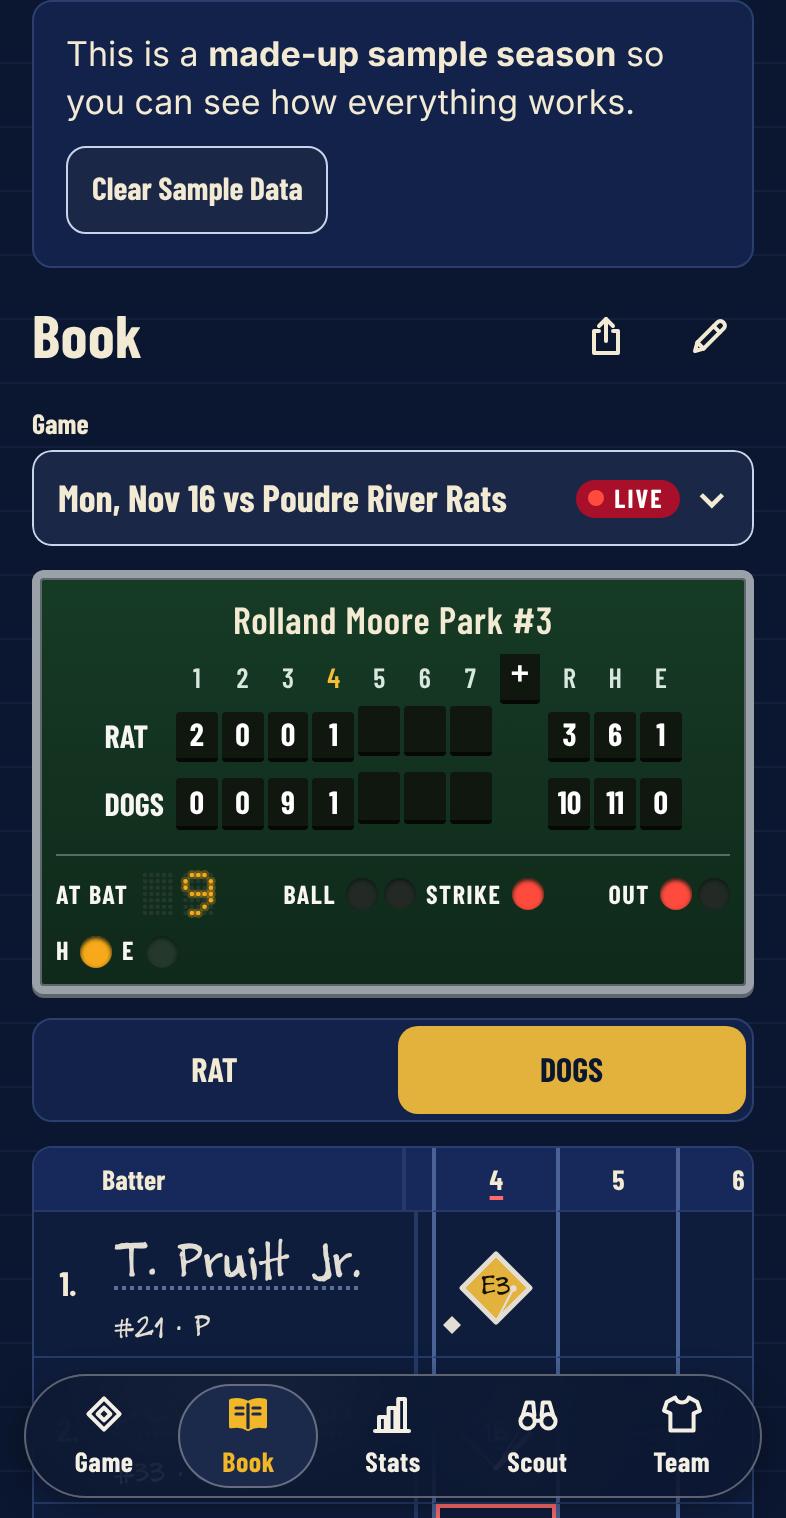
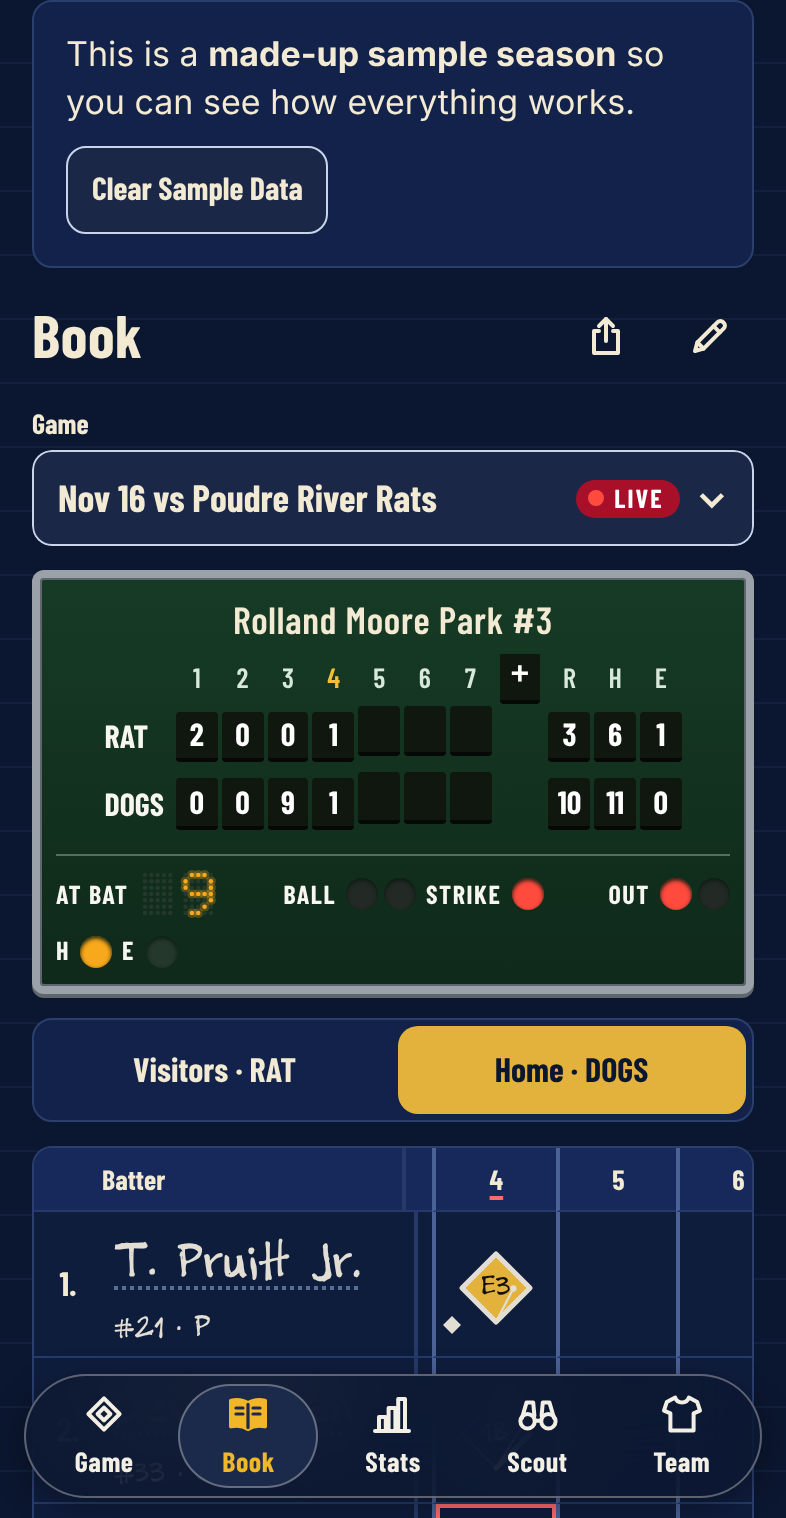
Book: Visitors and Home pages, one-line game menu entries without the weekday, a navy focus ring; iOS draws system pieces
Claude-Session: https://claude.ai/code/session_019GkS5eEiAzmEB3GrHC5aVf

Changed region(s): [[0.0611, 0.3096, 0.6412, 0.3406], [0.6107, 0.6812, 0.8244, 0.7121], [0.1527, 0.6812, 0.3664, 0.7121]]

diff --git a/src/ui/book/book.ts b/src/ui/book/book.ts
@@ -16,7 +16,7 @@ import { h } from '../dom.ts';
 import { icon } from '../icons.ts';
 import { choose, openSheet } from '../sheet.ts';
 import { openPlayerCard } from '../stats/playercard.ts';
-import { dayText } from '../when.ts';
+import { dayText, shortDayText } from '../when.ts';
 import { BookBoard } from './board.ts';
 import { openEditPlay } from './editplay.ts';
 import { drawGrid } from './grid.ts';
@@ -41,7 +41,7 @@ export async function pickInk(app: App): Promise<void> {
   app.commit((d) => (d.prefs.bookInk = pick));
 }
 
-/** "Sat, Oct 17 vs Horsetooth Hackers · W 12–7", for the game menu. */
+/** "Oct 17 vs Horsetooth Hackers · W 12–7", for the game menu: no weekday, so each fits one line (Steve, Nov 16). */
 export function gameLabel(g: SavedGame): string {
   const s = stateOf(g);
   const us = s.score[g.setup.us];
@@ -49,7 +49,7 @@ export function gameLabel(g: SavedGame): string {
   const result = resultFor(g);
   // "Live" rather than "In Progress", so the whole line fits the menu (Book polish, Nov 14).
   const tail = !g.saved && !s.final ? 'Live' : `${result ?? ''} ${us}–${them}`.trim();
-  return `${dayText(g.date)} ${g.setup.us === 'away' ? 'at' : 'vs'} ${g.opponent} · ${tail}`;
+  return `${shortDayText(g.date)} ${g.setup.us === 'away' ? 'at' : 'vs'} ${g.opponent} · ${tail}`;
 }
 
 /** Each name and the line under it on one line: shrink (--fit) until it shows whole. */
@@ -134,8 +134,9 @@ export class BookScreen {
     this.board.update(team, game, number);
 
     // Which team's page.
-    const away = game.setup.us === 'away' ? { value: 'us' as const, label: team.abbr } : { value: 'them' as const, label: game.opponentAbbr };
-    const home = game.setup.us === 'home' ? { value: 'us' as const, label: team.abbr } : { value: 'them' as const, label: game.opponentAbbr };
+    // Labeled like a scorebook's two pages (Steve, Nov 16): "Visitors · RAT" and "Home · DOGS".
+    const away = game.setup.us === 'away' ? { value: 'us' as const, label: `Visitors · ${team.abbr}` } : { value: 'them' as const, label: `Visitors · ${game.opponentAbbr}` };
+    const home = game.setup.us === 'home' ? { value: 'us' as const, label: `Home · ${team.abbr}` } : { value: 'them' as const, label: `Home · ${game.opponentAbbr}` };
     const which = segmented('Book Page', [away, home], this.side, (v) => {
       this.side = v;
       this.update(true);

diff --git a/src/content/help.ts b/src/content/help.ts
@@ -136,7 +136,7 @@ export const HELP: HelpSection[] = [
       'Under it, Rare Plays is a checklist: a double play, a triple play, the cycle, an inside-the-park homer, a grand slam, a perfect inning, and a walk-off. The first time your team has one, it gets a check and the date and park, written in by hand.',
       'Watch Replay, above the play-by-play, plays the game back on the field: the ball’s line out to where it landed, runners moving around the bases, and the score ticking along. Play runs it, Back and Next step through, and the menu jumps to any half-inning.',
       'Tap any box or play-by-play line to Edit Play: change the result, move the ball, change where each runner ended and who gets the RBI, or Delete This Play (tap twice). Everything after it is re-scored, on saved games too, and the stats follow.',
-      'Use the short team names above the page to switch teams, the Game menu for another game (LIVE marks the one being scored), the pencil at the top to choose Pencil, Black Pen, or Blue Pen, and the share icon beside it to share the game. During a game, the Book opens on the inning being played; swipe the page sideways for the others, and the names stay put.',
+      'Use Visitors and Home above the page to switch teams, the Game menu for another game (LIVE marks the one being scored), the pencil at the top to choose Pencil, Black Pen, or Blue Pen, and the share icon beside it to share the game. During a game, the Book opens on the inning being played; swipe the page sideways for the others, and the names stay put.',
     ],
   },
   {

diff --git a/src/ui/when.ts b/src/ui/when.ts
@@ -10,6 +10,13 @@ export function dayText(iso: string, now = new Date()): string {
   return d.toLocaleDateString(undefined, { weekday: 'short', month: 'short', day: 'numeric', ...(sameYear ? {} : { year: 'numeric' }) });
 }
 
+/** "Nov 15" (no weekday; the year only when it isn't this year): the Book's game menu (Steve, Nov 16). */
+export function shortDayText(iso: string, now = new Date()): string {
+  const d = dateFromIso(iso);
+  const sameYear = d.getFullYear() === now.getFullYear();
+  return d.toLocaleDateString(undefined, { month: 'short', day: 'numeric', ...(sameYear ? {} : { year: 'numeric' }) });
+}
+
 export function timeText(hhmm: string): string {
   if (!/^\d{1,2}:\d{2}$/.test(hhmm)) return '';
   const [h, m] = hhmm.split(':').map(Number) as [number, number];

diff --git a/tests/e2e/book-stats.spec.ts b/tests/e2e/book-stats.spec.ts
@@ -240,7 +240,7 @@ test('Book Ink, View Game from Stats, the other team’s page, and Scout', async
   await expect(page.getByRole('tab', { name: 'Book' })).toHaveAttribute('aria-selected', 'true');
   await expect(page.getByLabel('Game', { exact: true }).locator('option:checked')).toContainText('Two Left Mitts');
   await expect(page.locator('.bk-stamp, .bk-incomplete')).toBeVisible();
-  await page.getByRole('group', { name: 'Book Page' }).getByRole('button', { name: 'MIT' }).click();
+  await page.getByRole('group', { name: 'Book Page' }).getByRole('button', { name: /· MIT$/ }).click();
   await expect(page.locator('.bk-name').first()).not.toHaveText('Jess Kowalczyk');
   // Scout.
   await page.getByRole('tab', { name: 'Scout' }).click();

diff --git a/src/ui/book/book.css b/src/ui/book/book.css
@@ -105,9 +105,11 @@
   padding-bottom: 6px;
 }
 
-.bk-picker-box:focus-within .bk-picker-face {
-  outline: 3px solid var(--focus);
-  outline-offset: -3px;
+.bk-picker-box:has(select:focus-visible) .bk-picker-face {
+  /* A keyboard's focus ring only, in navy: red means outs and alerts, and a live game isn't an
+     alert (Steve, Nov 16). The thin navy border stays after a tap. */
+  outline: 2px solid var(--role-navy-line);
+  outline-offset: -4px;
 }
 
 /* LIVE: a small red badge with a lit lamp, the same red as the board's count lights. The badge's

diff --git a/src/content/whats-new.ts b/src/content/whats-new.ts
@@ -10,6 +10,11 @@ export interface WhatsNewEntry {
 
 export const WHATS_NEW: WhatsNewEntry[] = [
   {
+    version: '2026.11.16-10',
+    headline: 'Two Pages, Plainly Marked',
+    lines: ['The Book’s pages now read Visitors and Home, the way a scorebook does, and the game menu keeps every game to one tidy line: “Nov 15 vs Poudre River Rats.”'],
+  },
+  {
     version: '2026.11.16-9',
     headline: 'The Book, Cleaned Up',
     lines: [

diff --git a/src/version.ts b/src/version.ts
@@ -1,2 +1,2 @@
 // Bump on every push that changes the app. Format: YYYY.MM.DD-N
-export const APP_VERSION = '2026.11.16-9';
+export const APP_VERSION = '2026.11.16-10';

diff --git a/docs/MASTER_SPEC.md b/docs/MASTER_SPEC.md
@@ -292,7 +292,7 @@ Top to bottom on iPhone:
 
 ### 6. Book tab
 
-- **Book screen (Steve's Book handoff, Nov 16, 2026.11.16-9):** the large **Book** title on the left; icon buttons on the right: Share (our tray-and-arrow icon) and a pencil that opens Book Ink as the iPhone's own menu (the Share and Ink pills are gone). The game picker is the iPhone's own menu under a face in the athletic letters, with a red **LIVE** badge (a lit count-light lamp on deep red, white words at 9:1) on a game still being scored. The board's count lights (B, S, O) share one size with the Game board's, `--count-lamp` (16 points, smaller only on narrow boards). The scorecard opens a live game on the current inning, just right of the pinned # and Batter columns; rows are 72 points; the handwritten name is as big as the row allows (24 points) and shrinks to fit one line (never under 12), with the jersey and position on one line under it. Tests: current inning in view, Batter column fixed while scrolling, names fit at 375 and 430 points, and both boards' lights the same size.
+- **Book screen (Steve's Book handoff, Nov 16, 2026.11.16-9):** the large **Book** title on the left; icon buttons on the right: Share (our tray-and-arrow icon) and a pencil that opens Book Ink as the iPhone's own menu (the Share and Ink pills are gone). The game picker is the iPhone's own menu under a face in the athletic letters (a thin navy border; red only in the badge; entries without the weekday, "Nov 15 vs Poudre River Rats · Live", 2026.11.16-10), with a red **LIVE** badge (a lit count-light lamp on deep red, white words at 9:1) on a game still being scored. The board's count lights (B, S, O) share one size with the Game board's, `--count-lamp` (16 points, smaller only on narrow boards). The page switcher reads **Visitors · RAT** and **Home · DOGS** (2026.11.16-10). The scorecard opens a live game on the current inning, just right of the pinned # and Batter columns; rows are 72 points; the handwritten name is as big as the row allows (24 points) and shrinks to fit one line (never under 12), with the jersey and position on one line under it. Tests: current inning in view, Batter column fixed while scrolling, names fit at 375 and 430 points, and both boards' lights the same size.
 - **Book scoreboard:** a hand-hung field board: the park name painted across the top (scales to fit; long names wrap to two balanced lines; falls back to the home team's name), no stadium lights (removed Nov 16), dark hung plates with white numbers for each inning and R H E, short team names (press and hold for full), **+** to add an inning (Nov 16: a plate the size of an inning's, in the inning row, its 44-point tap area floating over it so the row never grows), bottom row: **AT BAT** to the left of the batter's number in bulbs, BALL and STRIKE lamps (count on only), OUT lamps, and H and E lamps lit when the last play was a hit or error.
 - **Scorebook grid:** one box per at-bat (60 pt), # and Batter columns pinned while innings scroll sideways (no seams leaking through), our team's names in pencil with a dotted "tap me" underline opening the player card, long names shortened to "J. Kowalski". Each box: small diamond showing how far the batter got, the play code, a thin pencil line from home toward where the ball went, outs circled in red pen, runs in yellow highlighter **plus a small solid pencil diamond** (not color alone), TB and IP notes. Current inning and batter underlined. Tap a box to Edit Play. VoiceOver reads each box as a sentence ("Inning 2, single to left field, scored").
 - **Handwriting:** Steve's own Calligraphr font. **Settled (Steve, Nov 2026): the font in `tools/fonts/steve-hand-source.ttf` is the one he uses ("the pencil font"), everywhere; no swap.** (Its file name says 25_110_110; Steve confirmed it's the font the app was using before, so the naming in the mockup PDF doesn't matter.) If he ever sends a new export, replace the source TTF and rerun the script; it measures the stroke width itself. The font is self-hosted as `src/assets/fonts/steve-hand.woff2`, built by `python3 tools/build-hand-font.py` from his export in `tools/fonts/steve-hand-source.ttf` (not thickened; it's already a marker weight). Characters come from three places, in this order of preference: what he drew on his Calligraphr sheets; symbols he drew around the edge of his second sheet (Nov 2026: + • # $ & % @ ★ ✓ ◆ ① ② ③ Ñ ñ “ ”), traced by `tools/trace-sheet.py` into `tools/fonts/traced/` and thickened to match his letters' stroke at their final size; and characters built from his strokes the way font makers build accents (ꓘ his K mirrored, the en dash, · his bullet smaller, é á í ó ú É Á Í Ó Ú ü ö Ü Ö, and since 2026.11.11-7: | his l stretched, \\ his slash mirrored, ✕ and × his slash widened to 45° and crossed with its mirror, → his hyphen with two 45° slashes for the head, \* three of his hyphens crossed, and tally marks U+1D377 (one, his l, short) and U+1D378 (five, four of them with his slash across), which need the font's full-range format 12 character table). `reference/handwriting-alphabet.png` shows all 124 characters; rerun `python3 tools/build-hand-font.py` and remake it after a new export. `tools/fonts/steve-hand-built.json` lists where each one came from. Kalam (`src/assets/fonts/kalam.woff2`) stays as a backup for anything else. When Steve sends a new export, replace the source TTF and rerun the script: anything he drew himself always wins over a derived character. (The first build used the pen version, "Steve Pencil", thickened 20 font units.) **Nov 11, 2026 sheets (2026.11.11-10):** Steve scanned four pages (the scans stay out of the repo): his second Calligraphr letters sheet, a symbols sheet, a whole-words page, and a free-writing page. `python3 tools/read-sheets.py page1.png … page4.png` (300 dpi PNGs from the PDF) cuts every box, margin note, and word into `tools/fonts/sheets/` with `sheets.json` (where each sat in its box, and each word's baseline); `tools/build-hand-font.py` then (1) fits the template box to font units from every letter's top and bottom in both copies, so his second copy keeps its own bounce off the line; (2) matches line weight by tracing and measuring (twice the area over the outline length) against his first font's lowercase, and closes hairline gaps between doubled-over strokes; (3) adds `.alt` glyphs for all 62 letters and digits plus ! " ' , . : ; ?, ★, ❤, ① ② ③, 🚫, ꓘ, and the codes, and a `calt` rule (`sub @BASE @BASE' by @ALT`) so neighbors take turns, fixed, never random; (4) `liga`: whole words first (Complete Book, Rare Plays, Final, Player of the Game, Scorer's/Scorer’s Notes, Walk-Off, Inside the Park, Grand Slam, Cycle, Triple, Double Play, Triple Play, Sub, Tie, vs.), then codes (1B 2B 3B HR BB) and pairs (th ch sh ing oo ee ll tt ss ff vs.); (5) replaces built or earlier traced symbols with the ones he drew in boxes: # $ % & * + < = > @ [ \ ] ^ _ ` { | } ~ ‘ ’ “ ” ⊠ ✓ ✔ ✕ ✗ ✘ ★ ❤ ① ② ③ (all one height, 790 units, on the line) ← → ↗ ↘ ꓘ, and adds the **no sign** (Steve: the circle and line from the Ghostbusters logo; he drew the line bottom left to top right, so 🚫 U+1F6AB is his drawing mirrored, with his second copy as an alternate, and ⊘ U+2298 is as he drew it); **2026.11.11-11, symbols he didn't draw, built from his strokes (Steve: "generate them yourself"):** ↑ ↓ (his → turned), ↖ ↙ (his ↗ ↘ mirrored), ☆ (an outline of his ★, one line wide), … (three of his periods), ° (his o, half size, up high), and accents for names: à è ì ò ù â ê î ô û (and capitals) from his apostrophe tipped left, or two of them meeting at the top, ä ë ï from his periods, ç Ç from his comma; (6) sets the word space to 434 units, a third of the way from the old 370 toward the 563 his free writing measures, because names squeeze into the Book's column. His third copies (★, ①–③, ꓘ) are kept on disk, unused. `reference/handwriting-alphabet.png` shows both copies side by side. Digits must be unmistakable (a "1" never reads as "I"; the font was chosen partly for this). Graphite pencil ink; Dark Mode uses white pencil like chalk, and highlighted runs use dark ink on solid gold. **Steve (Nov 2026):** the black-ink font stands in for a scorekeeper's pencil, so it must read as graphite; an ink choice (pencil or pen, a few colors) is proposed in BACKLOG, Book ink.

diff --git a/CLAUDE.md b/CLAUDE.md
@@ -61,6 +61,7 @@ These rules applied to the first build and still apply.
 
 ### Platform
 - **Match Apple's own apps** (Steve, Nov 15): navigation, sheets, scrolling, and controls follow how Apple's apps behave on the latest released iOS (26/27). When Apple's apps differ, pick the pattern of the apps most like ScoreKept and record the choice in Decisions. Steve tests on iOS developer betas, so confirm anything odd on a released iOS before changing code for it.
+- **iOS draws system pieces; ScoreKept draws the page** (Steve, Nov 16). Menus, pickers, the share sheet, confirmation dialogs, date and time pickers, and the keyboard are the iPhone's own, never restyled. Everything on the page (boards, the scorebook, cards, buttons, labels) is ScoreKept's. The Book's ink menu and game menu are native menus, and any new confirmation uses the native dialog.
 - **iPhone and iPad only.** Safari/WebKit is the engine that matters. No Android-specific work. Use iPhone patterns, never Material ones (no floating + buttons, snackbars, or ripple effects).
 - **Follow the device:** light or Dark Mode, text size (Dynamic Type), Reduce Motion, Increase Contrast, Reduce Transparency, and VoiceOver. **No in-app appearance or text-size switches.**
 - **Every tappable control is at least 44 x 44 points.** When a control grows to 44, check the cell or column it sits in too.
@@ -79,7 +80,7 @@ These rules applied to the first build and still apply.
 - **All colors are named tokens** in one light set and one dark set at the top of the stylesheet. Never hard-code a color in a rule. Things that look the same in real life in both modes (the field scoreboard, the green field) live in a fixed set used by both. Canvas and SVG picture colors live in one named `PICTURE` set in code.
 - **The app's theme is fixed** (navy, ballpark red, gold, cream). Team colors appear only where they mean "your team": the team badge and team logo pins (the board's team-color stripe came off Nov 15; the lit at-bat lamp marks who's batting).
 - **The Master Spec palette (Steve, Nov 14) is locked:** the `--sk-*` tokens at the top of `src/styles/tokens.css` (greens deep / primary / surface / action / muted; cream canvas and ruled; button chalk; metal utility and lip; base white; light housing and lenses; navy anchor; gold runner; LED amber and unlit; clay out and tint; ink light, muted green, and dark). Every other color token points at one of these. Where a spec color is under 7:1 as text, a text shade sits beside it (`--sk-gold-ink`, `--sk-clay-ink`, `--sk-ink-muted-text`) and the spec value stays for frames and fills. Dark Mode keeps its own set for paper and ink; the scoreboard looks the same in both, and the cream keys turn dark slate (the button system, Nov 15).
-- **Tab identities** (Steve, Nov 16): every tab shares one visual language but has its own physical object. **Game:** the stadium (scoreboard and keypad). **Book:** the paper scorebook. **Stats:** the back of a baseball card. **Scout:** a coach's clipboard with spray charts. **Team:** a roster card or the clubhouse wall. Shared on every tab: the athletic face for every label, bulb digits only for live numbers, handwriting only for what a scorer writes by hand; one button system (four roles), no new button styles on any tab; every board uses the same frame and line tokens. (The color-jobs line is waiting on Steve's answer; see BACKLOG.)
+- **Tab identities** (Steve, Nov 16): every tab shares one visual language but has its own physical object. **Game:** the stadium (scoreboard and keypad). **Book:** the paper scorebook. **Stats:** the back of a baseball card. **Scout:** a coach's clipboard with spray charts. **Team:** a roster card or the clubhouse wall. Shared on every tab: color jobs (navy = structure, cream = paper, green = boards, gold = now and runners, red = outs and alerts), the athletic face for every label, bulb digits only for live numbers, handwriting only for what a scorer writes by hand; one button system (four roles), no new button styles on any tab; every board uses the same frame and line tokens.
 - **One principle: "nothing the real object doesn't have."** The scoreboard is the one detailed piece (rivets, bulbs, lamps). Controls are clean and matte, with crisp borders.
 - **The button system** (Steve, Nov 15). Every button looks like it belongs to a scorebook. Two shapes, four roles, one press:
   - **Shapes, as tokens:** `--sk-radius-control` (10 points) for every rectangular button, field, menu, row, and card; `--sk-radius-pill` (fully round) for badges (OUT, WALK, runner tags), switches, icon buttons (✕, ♪), and swatches. Drawn real objects (the scoreboard, bases, Book marks, the player) keep their own shapes. No one-off radii.
@@ -116,6 +117,7 @@ These rules applied to the first build and still apply.
 
 Newest first. One line each, with the date and where the detail lives. Later sessions follow these unless Steve changes one; a change gets its own new line.
 
+- **Nov 16 (Book answers):** color jobs are "gold = now and runners; red = outs and alerts" (house style, tab identities); the team switcher reads "Visitors · RAT" / "Home · DOGS"; the game menu stays the iPhone's own, its closed field has a thin navy border (red only in the LIVE badge), and entries drop the weekday ("Nov 15 vs Poudre River Rats · Live"); iOS draws system pieces and ScoreKept draws the page (house style, Platform). Both boards get the painted-sign frame (3-point cream frame, 2-point cream dividers, no rivets), mockup first.
 - **Nov 16 (Book handoff):** tab identities added to house style; the Book's header is the large title with Share and pencil icons (Ink is the iPhone's own menu), the game picker has the athletic face and a red LIVE badge, the stadium lights (and night-game lights) are gone, + is a plate in the inning row, the count lights share one 16-point size on both boards, and the scorecard opens on the current inning with 72-point rows and names that shrink to fit one line (MASTER_SPEC, Book screen). Held for Steve: the boards' frame (neither has a cream frame today), the color-jobs wording, and the team switcher's caps (BACKLOG).
 - **Nov 16 (tab bar, cream glass):** replaces the navy glass: cream glass at 78% with a blur, a 1.5-point navy outline, a soft shadow, the pill shape, navy icons and labels, the current tab in a navy capsule with gold; Dark Mode is dark glass with cream icons, a cream outline at 35%, and the capsule gets that outline too; solid with a 2-point outline under Increase Contrast or Reduce Transparency; labels stay 14 points and 7:1 (Steve's answers to the mockup's four questions; MASTER_SPEC §18).
 - **Nov 16 (sheet-music excerpts):** every tune is a clean 4- or 8-bar phrase ending on the home chord, melody only; the stretch is Take Me Out (the chorus straight in, no verse pickup, about 36 s; Steve, Nov 16 later: "just get to the song") in the middle of the inning two before the last scheduled one, never twice, with a Stretch button in the Organ; an HR Out plays "Over the Fence Is Out!" in place of the home run cue; Tiger Rag's 1932 words never appear; PDFs stay out of the repo (ORGAN_TUNES, Excerpts).

diff --git a/docs/BACKLOG.md b/docs/BACKLOG.md
@@ -152,9 +152,8 @@ These are now grouped into Phases 11–15 in BUILD_PLAN.md: the look (1, 2, 6, 1
 - **Stadium Sounds (Nov 16): no.** Steve's call: the 14 soundboard sounds stay out for good. New recorded sounds only from a known, shareable source (CC0 or Steve's own), with the source written down in the repo.
 - **Blurry header on Steve's iPhone (Nov 15):** in Steve's Home Screen screenshots the ScoreKept wordmark and the three header icons are blurred and faded; in the headless test browsers they're sharp. It looks like iOS 26's top-edge effect over web apps (not documented for Home Screen web apps; developers report status-bar behavior changing between 26.0 and 26.1). Steve to check: does it show on the other tabs, in a plain Safari tab, and which iOS version (Settings, General, About)? Then try a fix on his iPhone (for example, starting the header a little lower). **Nov 16:** Steve sees it in his screenshots too, on iOS developer beta 27.2. Held under the platform rule: confirm it on a released iOS (26 or 27.1) before changing code.
 
-## Waiting on Steve (Book handoff, Nov 16)
+## Board frame (Steve, Nov 16): mockup out, then build
 
-- **Board frame and divider:** the handoff says match the Game board's "--sk-board-frame 3pt cream outer frame and --sk-board-rule 2pt cream divider", but neither board has those today: both use the same 4-point grey metal frame (`--fb-frame`, with rivets on the Game board) and a 1-point faint white divider (`--fb-rule`). Suggested: add the two tokens and give **both** boards the 3-point cream frame and 2-point cream divider, shown in a mockup first, since it changes the Game board too.
-- **Color jobs line for house style:** "gold = now, red = outs" leaves out gold's other job (runners on base, runs and RBI, the at-bat lamp) and red's (the ✕, the LIVE badge, the red underline on section labels). Suggested: "gold = now and runners; red = outs and alerts (LIVE, ✕)".
-- **Team switcher label:** "VISITORS · RAT" / "HOME · DOGS" is in caps, but the house rule is caps only on the board and Title Case on the keys below it. Suggested: "Visitors · RAT" / "Home · DOGS" (team short names stay caps).
+Both boards get the painted-sign framing: `--sk-board-frame` (3-point outer edge) and `--sk-board-rule` (2-point inner dividers), board cream (not pure white, about 75% in Dark Mode), replacing the 4-point grey metal frame; clean square T- and L-joints with no gaps, every divider on the same token; all rivets and their styles removed; the homer and walk-off flash kept on the new frame. Waiting on Steve's pick from the mockup.
 
+**Question (Nov 16):** the new platform rule says new confirmations use the iPhone's own dialog. The existing ones are ScoreKept's alert-style sheets and the two-tap quiet delete buttons (house style, Words). Convert those too, or leave them?
